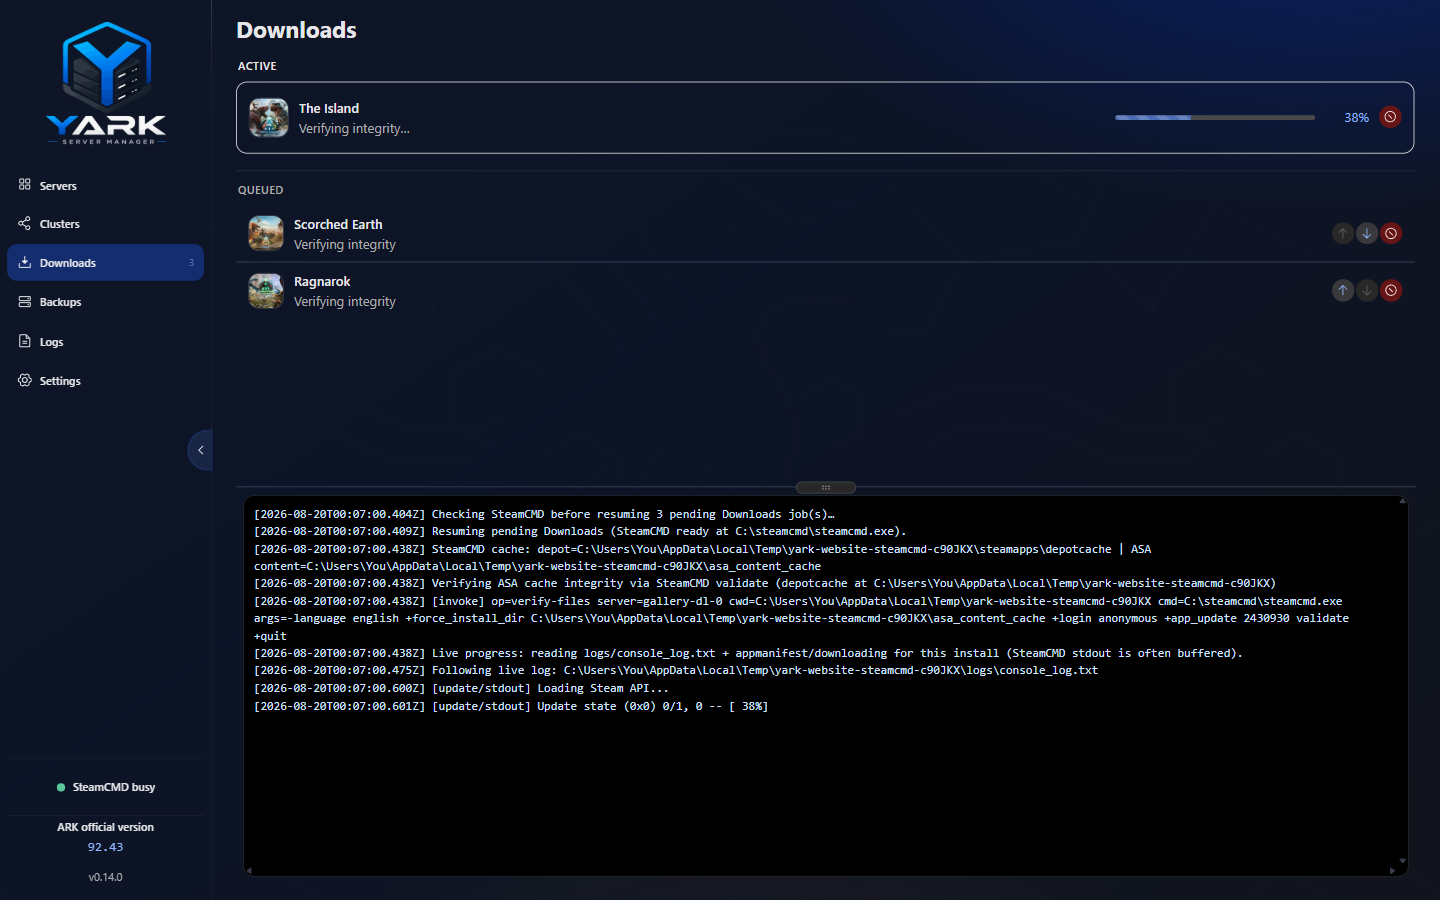
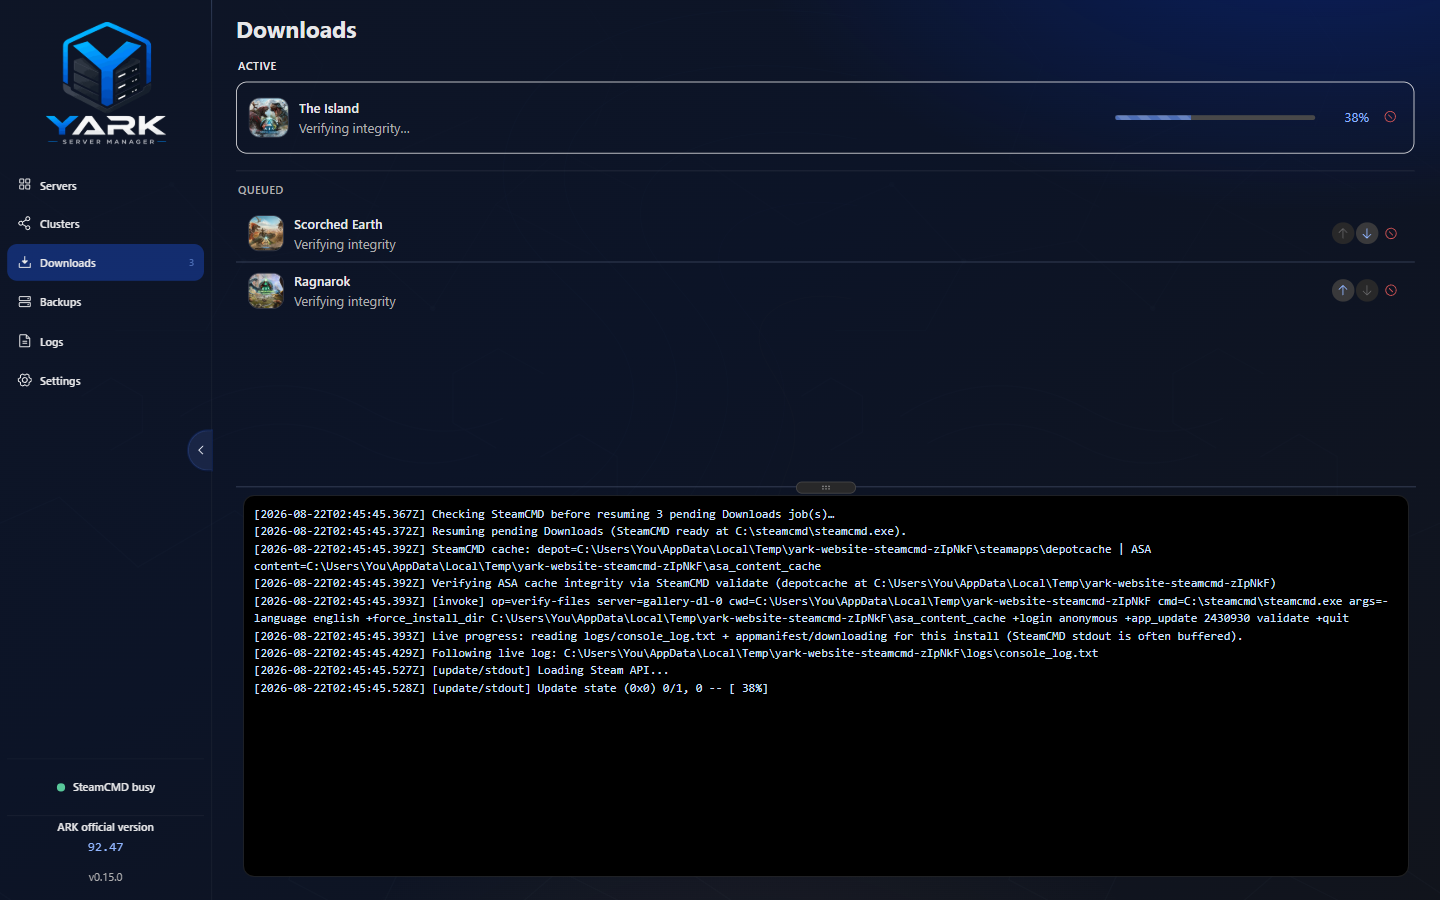
release: v0.15.0
Cut Discover mods, desktop alerts, and UI polish from Unreleased; sync What's new, website docs, and marketing screenshots.

diff --git a/src/shared/changelog.ts b/src/shared/changelog.ts
@@ -24,6 +24,34 @@ const DEFAULT_RECENT_CHANGELOG_LIMIT = 8;
  */
 export const changelog: ChangelogEntry[] = [
   {
+    version: "0.15.0",
+    date: "2026-08-22",
+    sections: [
+      {
+        title: "Added",
+        items: [
+          "Desktop alerts: optional Windows toasts for server crashes, SteamCMD install/update/verify results, and YARK updates (even from the tray).",
+          "Discover mods browses CurseForge with category filter, pagination, and table-column catalog sort.",
+        ],
+      },
+      {
+        title: "Changed",
+        items: [
+          "Content panels use a flat AppSurfaceCard shell; dense icon-only actions stay quiet subtle while labeled destructive buttons stay filled.",
+          "Disabled mods rows are dimmed; Stop and other labeled destructive actions use filled red, Restart uses fossil amber.",
+          "Operator copy prefers en dashes and …, with clearer Close/Finish labels instead of vague Done.",
+        ],
+      },
+      {
+        title: "Fixed",
+        items: [
+          "ScrollArea and Select dropdowns no longer show a double scrollbar.",
+          "Start and Restart show immediate Starting… / Restarting… feedback while pre-spawn work runs.",
+        ],
+      },
+    ],
+  },
+  {
     version: "0.14.1",
     date: "2026-08-19",
     sections: [

diff --git a/website/src/data/screenshots.ts b/website/src/data/screenshots.ts
@@ -45,9 +45,9 @@ export const screenshots: Screenshot[] = [
   },
   {
     src: withBase("/screenshots/workspace-mods.png"),
-    alt: "YARK Mods tab listing CurseForge Project IDs for an ASA dedicated server with enable toggles and metadata",
+    alt: "YARK Mods tab with Discover CurseForge browse, load-order table, enable toggles, and metadata",
     caption:
-      "Mods — flat panel with a dense load-order table, enable toggles, Project IDs, and Worker-backed metadata.",
+      "Mods — Discover browse with categories and pagination, plus a dense load-order table with enable toggles.",
   },
   {
     src: withBase("/screenshots/workspace-ini.png"),
@@ -89,6 +89,6 @@ export const screenshots: Screenshot[] = [
     src: withBase("/screenshots/settings.png"),
     alt: "YARK Settings on Windows with category navigation and the setup assistant entry point",
     caption:
-      "Settings — app-wide preferences grouped by category, with the setup assistant available anytime.",
+      "Settings — app-wide preferences by category, including Desktop alerts and the setup assistant.",
   },
 ];

diff --git a/website/src/data/roadmap.ts b/website/src/data/roadmap.ts
@@ -10,6 +10,10 @@ export type RoadmapItem = {
  * Prefer operator-visible product work from open issues (not CI/packaging hygiene).
  * Not a ship promise — keep wording directional. Milestones on GitHub stay authoritative.
  *
+ * Shipped in v0.15.0 (not previously listed here): Discover mods browse (#297),
+ * desktop alerts / Windows toasts (#331), flat content panels (#346), quiet icon
+ * actions (#397), destructive/filled lifecycle buttons (#344), Start/Restart
+ * immediate feedback (#390), ScrollArea dual-scrollbar fix (#395).
  * Shipped in v0.14.0 (not previously listed here): Downloads queue page (#201),
  * Overview Update All (#378), server list sort/view (#351), Launch tab search (#352),
  * quieter operator chrome, packaged DevTools hardening.

diff --git a/CHANGELOG.md b/CHANGELOG.md
@@ -9,6 +9,8 @@ How to bump versions and cut releases: see [docs/versioning.md](docs/versioning.
 
 ## [Unreleased]
 
+## [0.15.0] - 2026-08-22
+
 ### Added
 
 - Optional Windows toasts when a server crashes, a SteamCMD install/update/verify finishes or fails, or a YARK update is available/ready — even if YARK is in the tray; Settings → General **Desktop alerts** covers crash, installs/updates, YARK updates, and hide-to-tray. Success banners stay quiet; failures and crashes use the system sound (#331).
